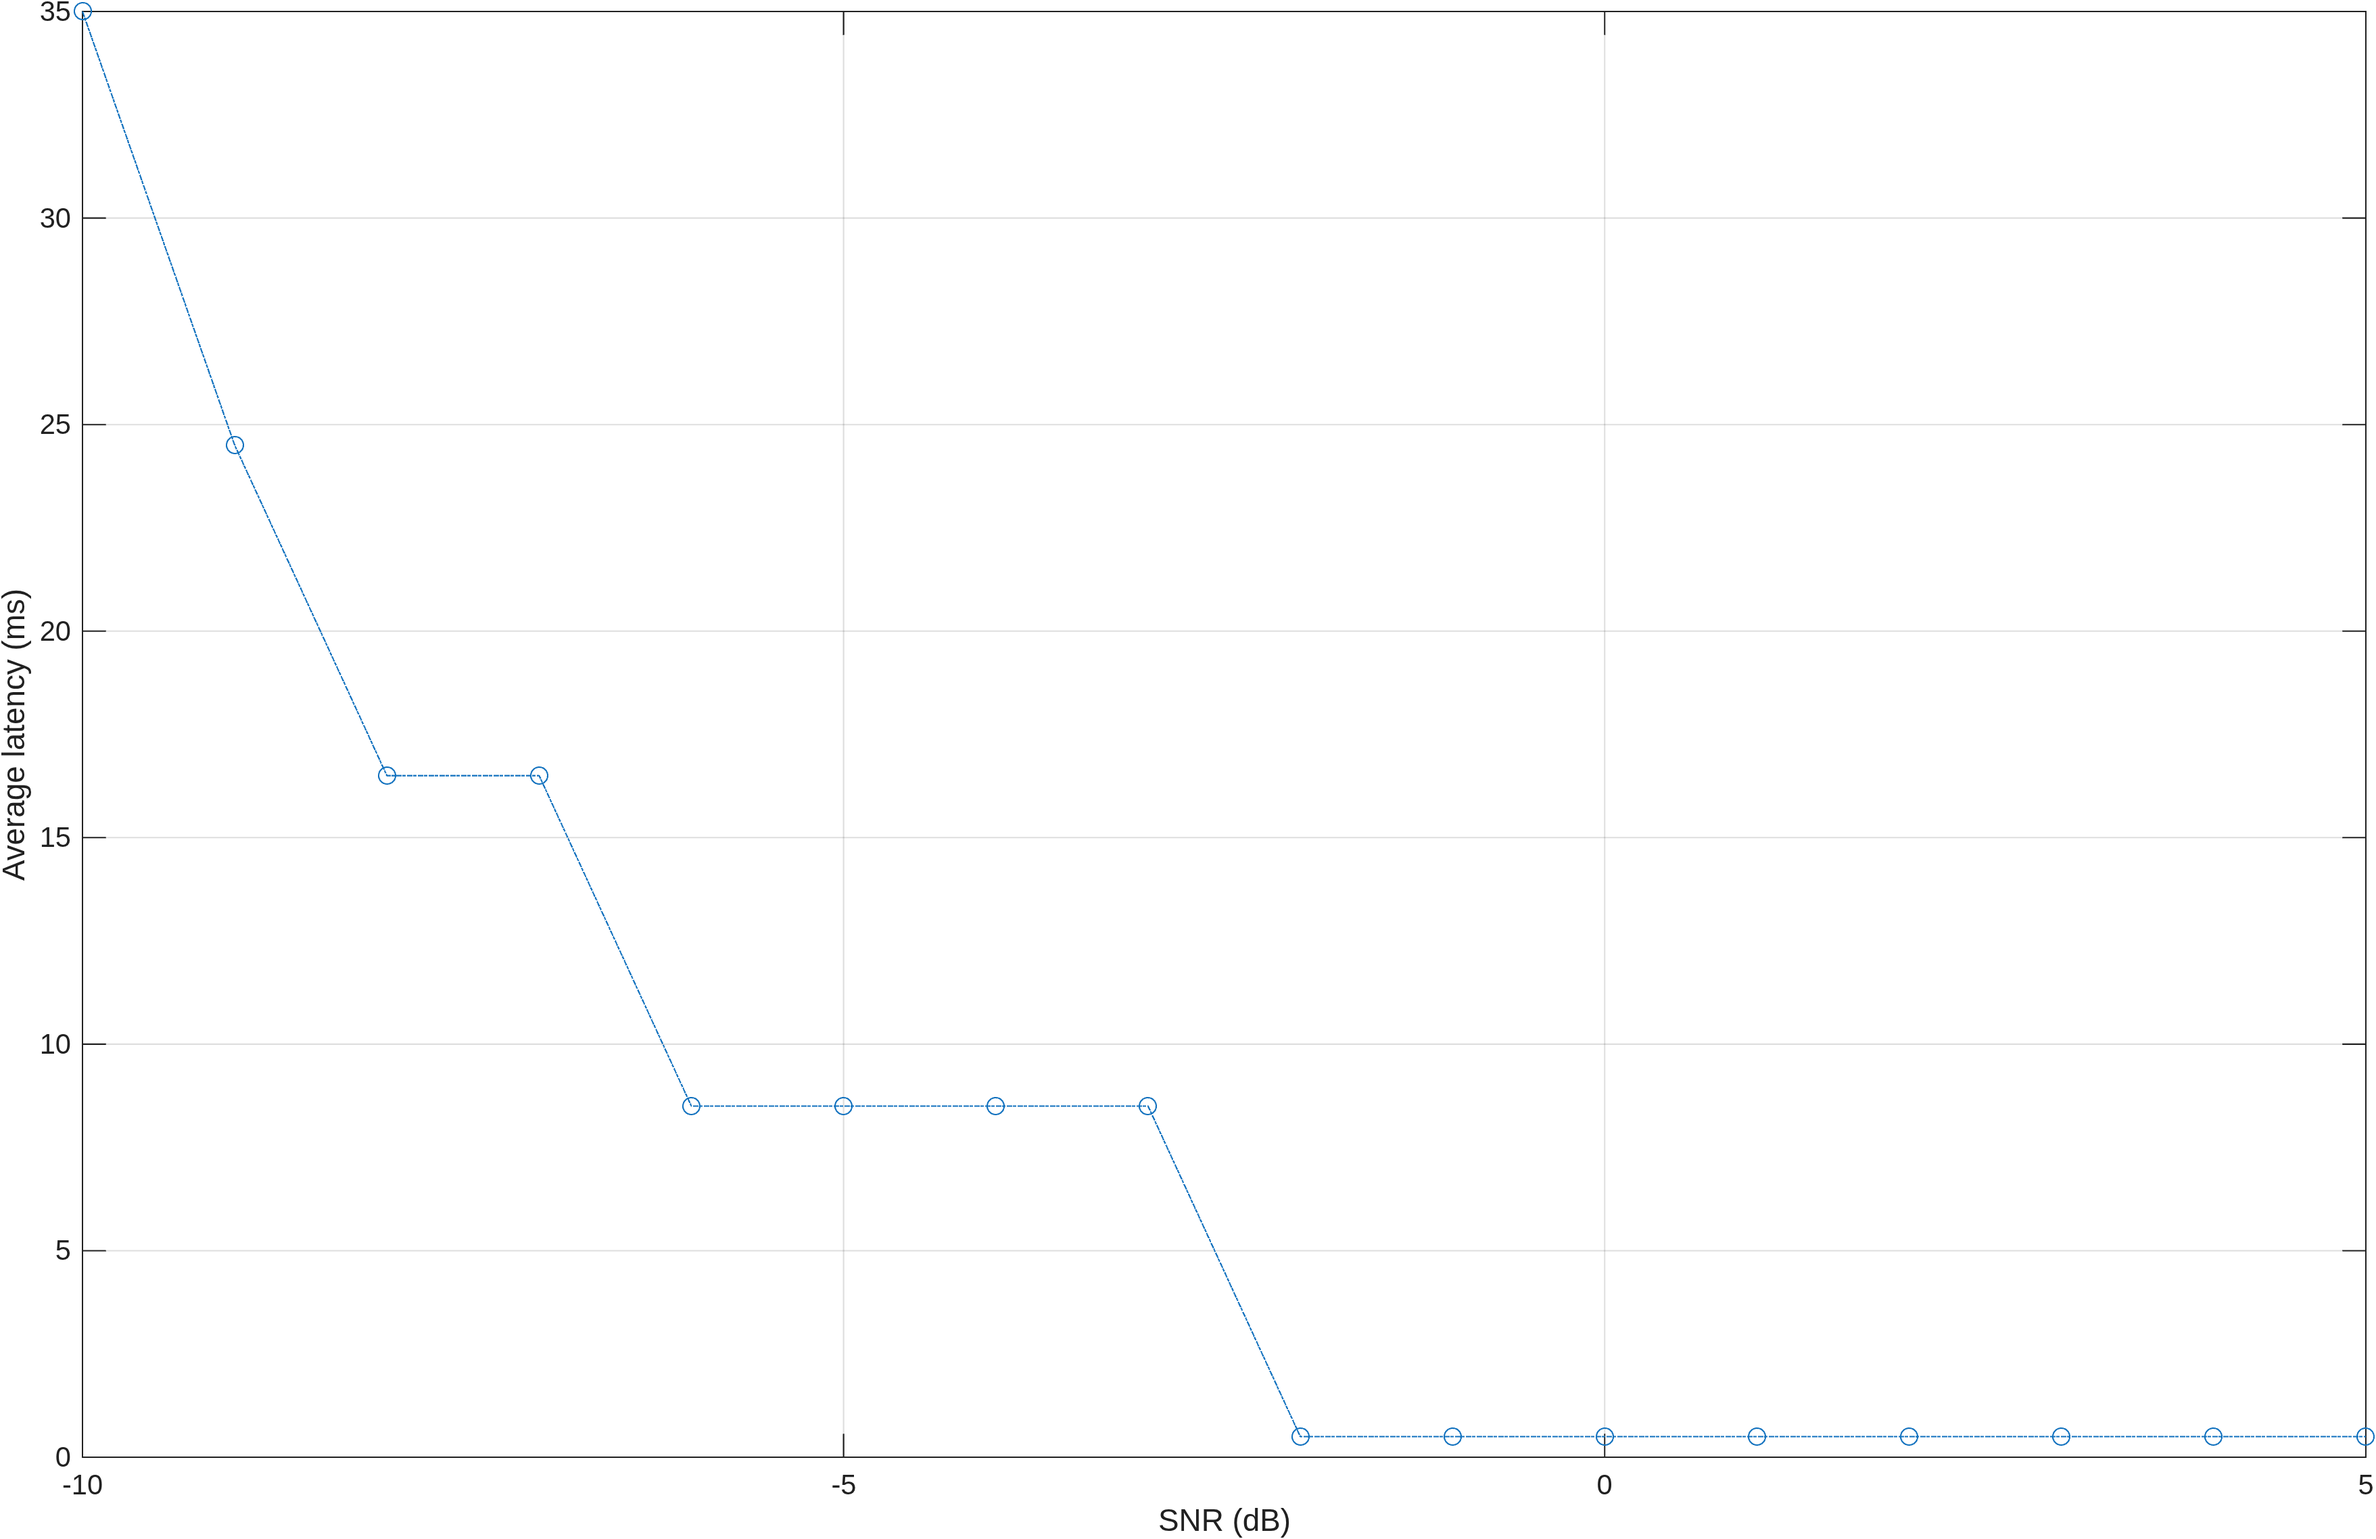
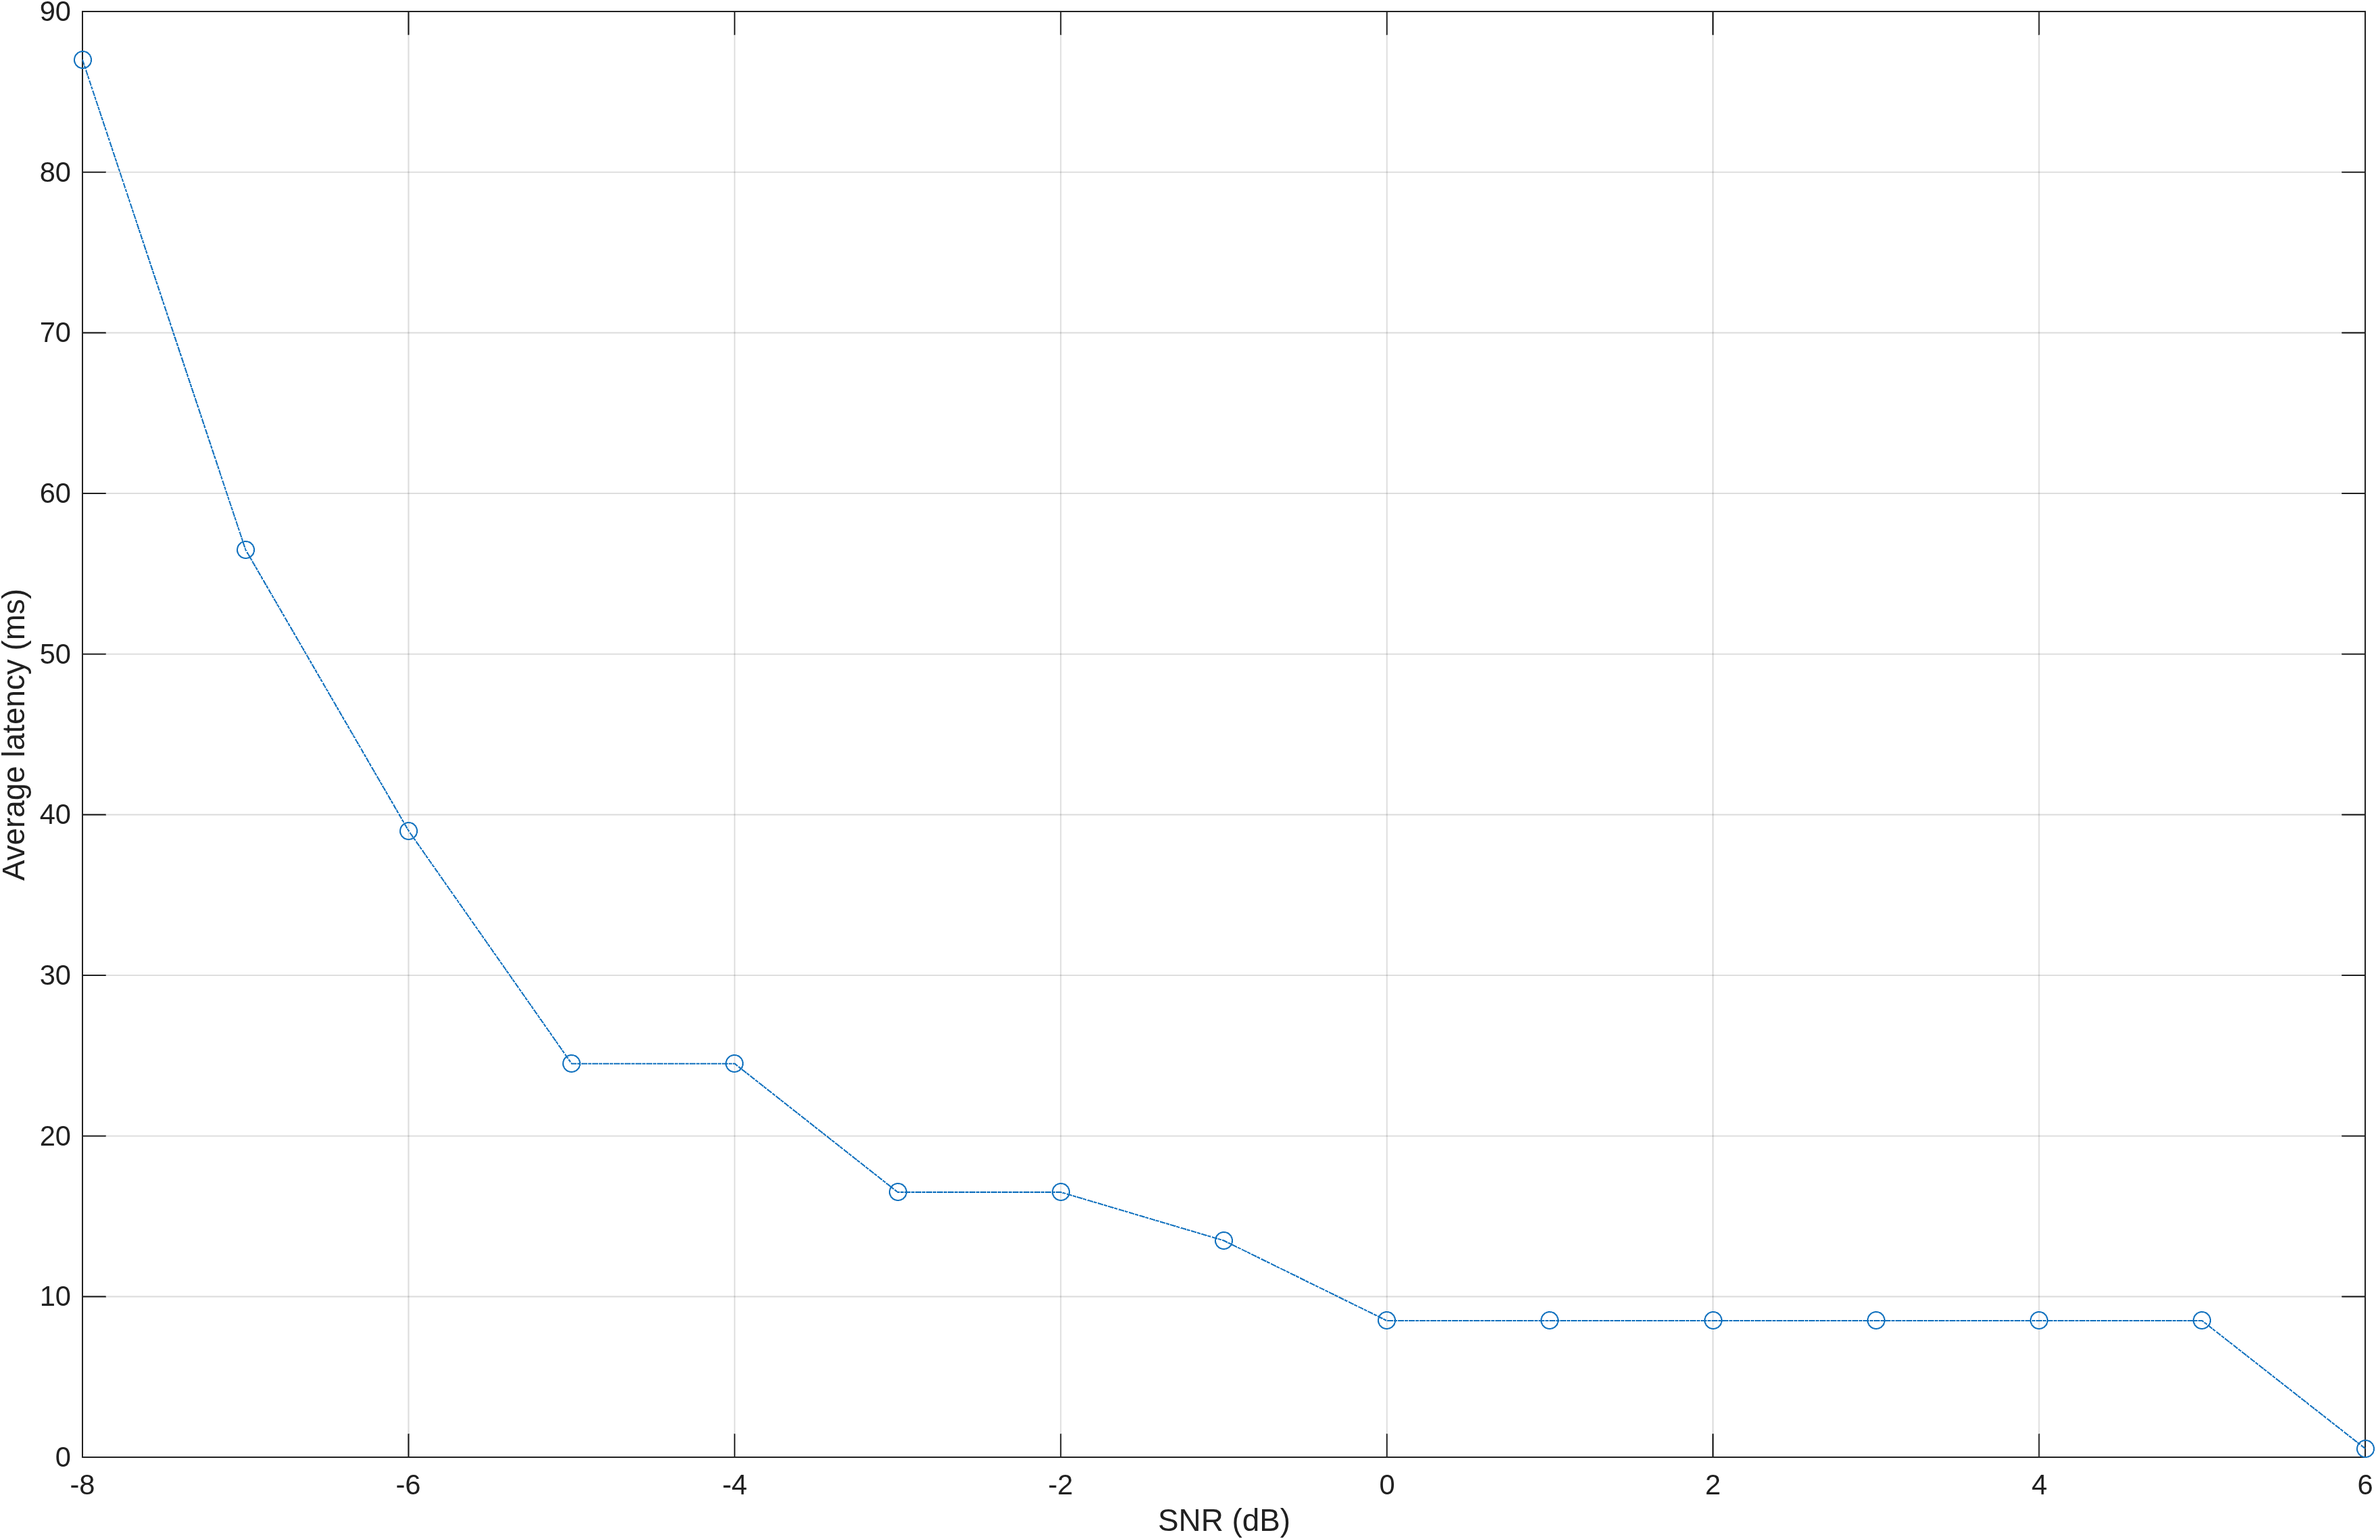
Fikset på min del av Q2

diff --git a/Q2.m b/Q2.m
@@ -63,11 +63,9 @@ clear; clc;
 % Definition used in Link Simulations>.
 simParameters = struct();       % Clear simParameters variable to contain all key simulation parameters 
 simParameters.NFrames = 10;      % Number of 10 ms frames
-simParameters.SNRIn = [-10 -9 -8 -7 -6 -5 -4 -3 -2 -1 0 1 2 3 4 5]; % SNR range (dB)
+simParameters.SNRIn = [-20 -19 -18 -17 -16 -15 -14 -13 -12 -11 -10 -9 -8 -7 -6 -5 -4 -3 -2 -1 0 1 2 3 4 5 6]; % SNR range (dB)
 
 numSNRPoints  = numel(simParameters.SNRIn);
-simThroughput = zeros(numSNRPoints,1);
-maxThroughput = zeros(numSNRPoints,1);
 
 %% GPU Acceleration
 % When your simulation runs on a very large data set, using a GPU can
@@ -173,7 +171,24 @@ simParameters.PDSCH.NumLayers = 2;            % Number of PDSCH transmission lay
 % Define codeword modulation and target coding rate
 % The number of codewords is directly dependent on the number of layers so ensure that 
 % layers are set first before getting the codeword number
-modulation = "16QAM";
+modulationlist = ["QPSK" "16QAM" "64QAM" "256QAM"];
+
+% One figure per metric, with explicit axes so nothing plots in the wrong figure
+figLat = figure; axLat = axes(figLat); hold(axLat,"on");
+figThr = figure; axThr = axes(figThr); hold(axThr,"on");
+
+% Storage for saving all modulations
+latencyAll    = nan(numSNRPoints,numel(modulationlist));
+throughputAll = nan(numSNRPoints,numel(modulationlist));   % Mbps
+throughputPct = nan(numSNRPoints,numel(modulationlist));   % %
+
+for index = 1:numel(modulationlist)
+    simThroughput = zeros(numSNRPoints,1);
+    maxThroughput = zeros(numSNRPoints,1);
+    simLatencyMs  = zeros(numSNRPoints,1);
+    numLatencyEvents = zeros(numSNRPoints,1);
+    modulation = modulationlist(index);
+    modulation = modulationlist(index);
 if simParameters.PDSCH.NumCodewords > 1                             % Multicodeword transmission (when number of layers being > 4)
     simParameters.PDSCH.Modulation = {modulation,modulation};             % "QPSK", "16QAM", "64QAM", "256QAM"
     simParameters.PDSCHExtension.TargetCodeRate = [490 490]/1024;   % Code rate used to calculate transport block sizes
@@ -181,6 +196,7 @@ else
     simParameters.PDSCH.Modulation = modulation;                       % "QPSK", "16QAM", "64QAM", "256QAM"
     simParameters.PDSCHExtension.TargetCodeRate = 490/1024;         % Code rate used to calculate transport block sizes
 end
+
 
 % DM-RS and antenna port configuration (TS 38.211 Section 7.4.1.1)
 simParameters.PDSCH.DMRS.DMRSTypeAPosition = 2;      % Mapping type A only. First DM-RS symbol position (2,3)
@@ -666,24 +682,23 @@ for snrIdx = 1:numSNRPoints      % comment out for parallel computing
 end
 
 
-
 %% Results
-% Plot average latency versus SNR
-
 avgLatencyMs = simLatencyMs ./ max(numLatencyEvents,1);
 avgLatencyMs(numLatencyEvents == 0) = NaN;
 
-figure;
-plot(simParameters.SNRIn(1:numel(avgLatencyMs(:))), avgLatencyMs(:), "o-.")
+throughputMbps = 1e-6*simThroughput./(simParameters.NFrames*10e-3);
 
-xlabel("SNR (dB)");
-ylabel("Average latency (ms)");
-grid on;
-title(sprintf("%s (%dx%d) / NRB=%d / SCS=%dkHz", ...
-    simParameters.DelayProfile,simParameters.NTxAnts,simParameters.NRxAnts, ...
-    simParameters.Carrier.NSizeGrid,simParameters.Carrier.SubcarrierSpacing));
+% Store for saving later
+latencyAll(:,index)    = avgLatencyMs;
+throughputAll(:,index) = throughputMbps;
+throughputPct(:,index) = 100*simThroughput./maxThroughput;
 
-% Bundle key parameters and results into a combined structure for recording
+% Latency plot
+plot(axLat,simParameters.SNRIn,avgLatencyMs,"o-.","DisplayName",modulation);
+
+% Throughput plot
+plot(axThr,simParameters.SNRIn,throughputMbps,"o-.","DisplayName",modulation);
+
 simResults = struct();
 simResults.simParameters = simParameters;
 simResults.simThroughput = simThroughput;
@@ -691,6 +706,8 @@ simResults.maxThroughput = maxThroughput;
 simResults.rxAntennaSNR = rxAntennaSNR;
 
 summaryTable = processResults(simResults);
+end   % end of modulation loop
+
 
 %%
 % Display a table that contains the measured throughput and SNR. The SNRIn
@@ -701,29 +718,48 @@ summaryTable = processResults(simResults);
 % the SNR definition that this example uses, see
 % <docid:5g_ug#mw_37cef3ca-2f4b-433d-8d68-117a881ca5fd SNR Definition Used
 % in Link Simulations>.
+titleStr = sprintf("%s (%dx%d) / NRB=%d / SCS=%dkHz", ...
+    simParameters.DelayProfile,simParameters.NTxAnts,simParameters.NRxAnts, ...
+    simParameters.Carrier.NSizeGrid,simParameters.Carrier.SubcarrierSpacing);
 
-disp(summaryTable);
+% Format latency plot
+hold(axLat,"off");
+xlabel(axLat,"SNR (dB)"); ylabel(axLat,"Average latency (ms)");
+grid(axLat,"on"); title(axLat,titleStr); legend(axLat,"Location","best");
 
-% Raw data
-if ~exist('Q2img','dir'), mkdir('Q2img'); end
+% Format throughput plot
+hold(axThr,"off");
+xlabel(axThr,"SNR (dB)"); ylabel(axThr,"Throughput (Mbps)");
+grid(axThr,"on"); title(axThr,titleStr); legend(axThr,"Location","best");
+
+disp(summaryTable);   % summary of the last modulation (256QAM)
+
+%% Save plots and data
+if ~exist('Q2img','dir'),  mkdir('Q2img');  end
 if ~exist('Q2data','dir'), mkdir('Q2data'); end
-plotData = table(simParameters.SNRIn(:), avgLatencyMs(:), ...
-    'VariableNames', {'SNRdB','LatencyMs'});
-save('latencyData.mat', 'plotData', 'simParameters', 'simResults');
 
+% Editable figures
+savefig(figLat,'Q2img/latencyPlot.fig');
+savefig(figThr,'Q2img/throughputPlot.fig');
 
-writetable(plotData, 'Q2data/latencyData.csv');
+% Images
+exportgraphics(figLat,'Q2img/latencyPlot.png','Resolution',300);
+exportgraphics(figThr,'Q2img/throughputPlot.png','Resolution',300);
+
+% Raw data (one column per modulation)
+snr = simParameters.SNRIn(:);
+latencyTbl = array2table([snr latencyAll], ...
+    'VariableNames',["SNRdB" "Latency_"+modulationlist]);
+throughputTbl = array2table([snr throughputAll throughputPct], ...
+    'VariableNames',["SNRdB" "Throughput_Mbps_"+modulationlist "Throughput_pct_"+modulationlist]);
+
+writetable(latencyTbl,'Q2data/latencyData.csv');
+writetable(throughputTbl,'Q2data/throughputData.csv');
+save('Q2data/simData.mat','latencyTbl','throughputTbl','simParameters');
 
 % Plot image
-fig = figure;
-plot(plotData.SNRdB, plotData.LatencyMs, 'o-.')
-xlabel('SNR (dB)')
-ylabel('Average latency (ms)')
-grid on
-exportgraphics(fig, 'latencyPlot.png', 'Resolution', 300)
-
 % Optional: save editable figure
-savefig(fig, 'Q2img/latencyPlot.fig')
+%savefig(fig, 'Q2img/latencyPlot.fig')
 
 
 %%
